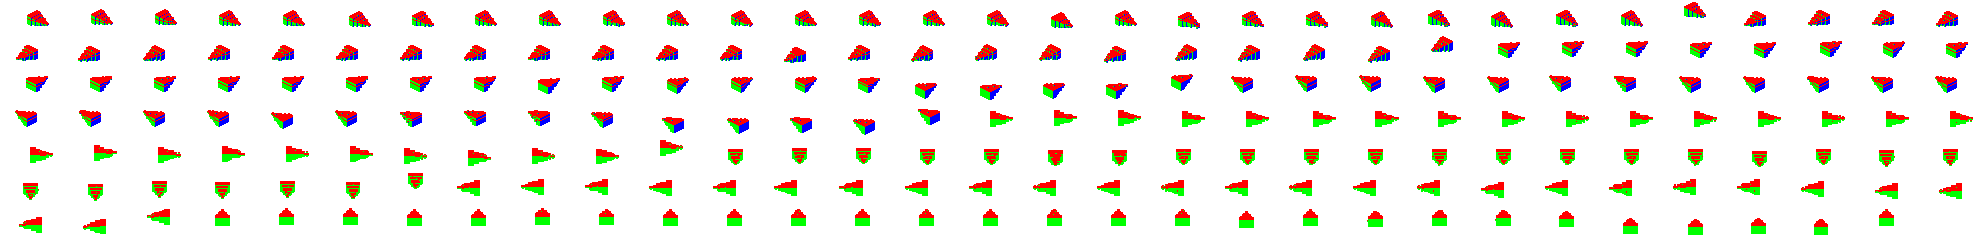
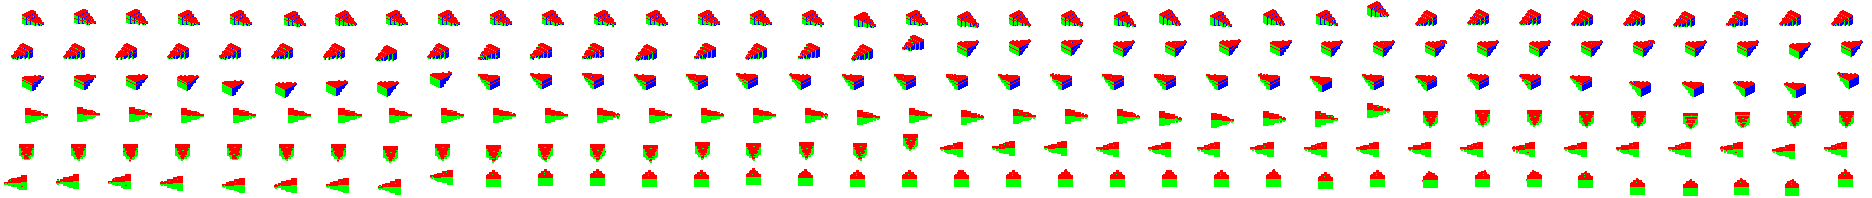
perf(content): aparar o quadro da broca de 128x68 para 104x66
O quadro foi dimensionado quando o meio passo ainda era re-amostrado, e a escada
projetava mais longe do que a geometria pede. Medido no rasterizador de hoje, o
conteúdo cabe em 102x65 nos oito rumos e em todas as poses — o pior caso é
`ul/carried/3`. 104x66 deixa 3 px de margem em três lados e 2 no de baixo,
contra os 2 que a validação cobra.

Não é limpeza gratuita: alargar a rampa no commit anterior (para caber sem a
escada) tinha deixado só 126.480 bytes de folga contra o teto sob demanda.
Agora o consumo cai de 50.205.168 para 48.174.448 e a folga vai a 2.157.200 —
dezessete vezes maior. PNG total de 3.395.427 para 3.388.582.

A âncora acompanha a largura porque ela é o ENCAIXE: render e manifest leem do
mesmo objeto, então a broca não sai do lugar na tela.

Claude-Session: https://claude.ai/code/session_01FSKVZh2Jru94onApbU2hKc

Changed region(s): [[0.0, 0.0, 1.0, 0.8485], [0.0, 0.8485, 0.9915, 1.0]]

diff --git a/docs/bosses/voxelyn-survival-chefes-por-bioma.md b/docs/bosses/voxelyn-survival-chefes-por-bioma.md
@@ -975,11 +975,18 @@ Três medidas que fecham a conta:
   oito dos nove com zero cores fora, e o nono (`part-diamandis-rack`) com a mesma
   uma de antes.
 - **Memória.** Boot inalterado em 166.159.264 bytes. PNG total caiu de 3.532.242
-  para **3.395.427** — superfície lisa comprime melhor que ruído.
+  para **3.388.582** — superfície lisa comprime melhor que ruído.
 - **Quadros.** Dois precisaram crescer, porque sem a escada o desenho projeta um
   pixel mais para os lados: a âncora do braço foi de 27 para 29, e a rampa foi de
   60 para 62 de largura (âncora 30). Nos dois, âncora de render e âncora
   publicada saem do mesmo objeto, então a peça não sai do lugar na tela.
+- **E um precisou ENCOLHER**, pela mesma razão invertida. O quadro da broca foi
+  dimensionado quando o meio passo ainda era re-amostrado, e a escada projetava
+  mais longe do que a geometria pede: medido no rasterizador de hoje, o conteúdo
+  cabe em 102×65 nos oito rumos e em todas as poses. De 128×68 para **104×66**
+  (âncora 52,31), o consumo sob demanda caiu de 50.205.168 para **48.174.448** —
+  a folga contra o teto foi de 126.480 para **2.157.200 bytes**, dezessete vezes
+  maior.
 
 Três defeitos meus no caminho, todos achados por medida e não por leitura:
 
